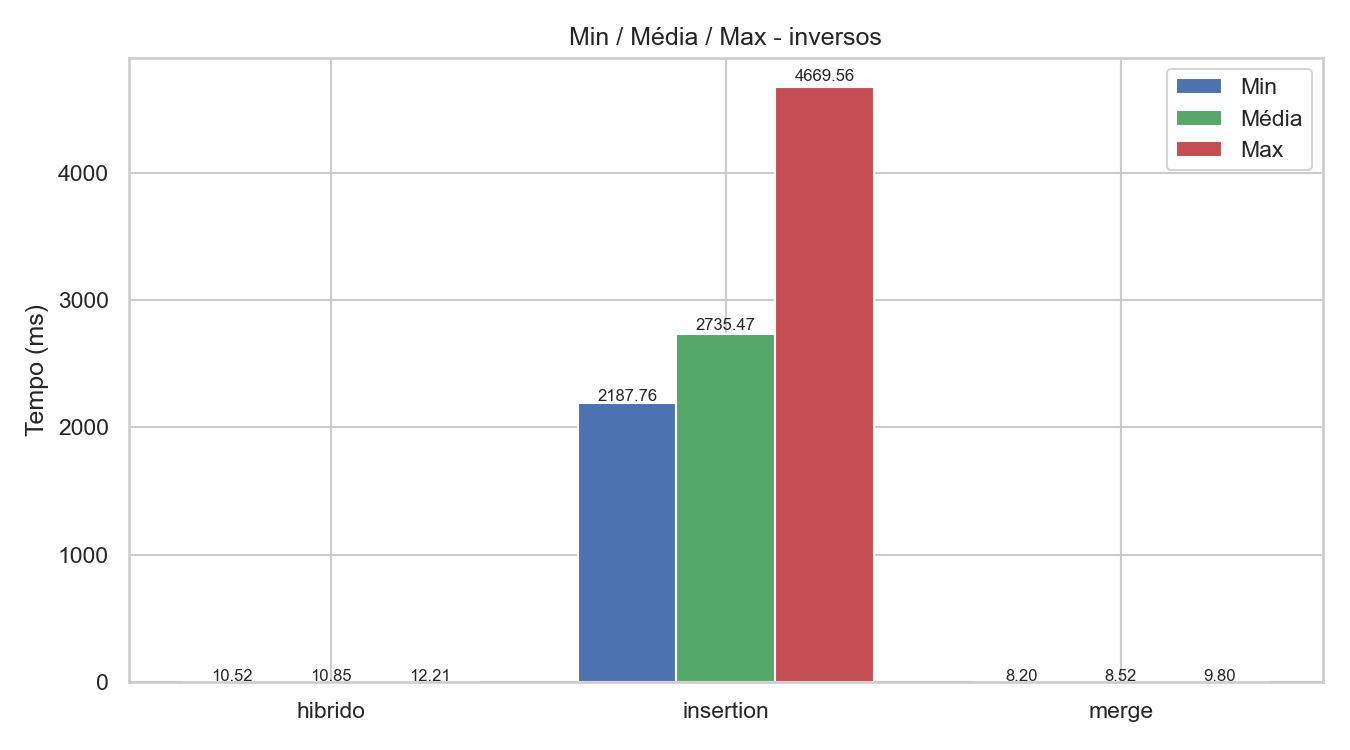
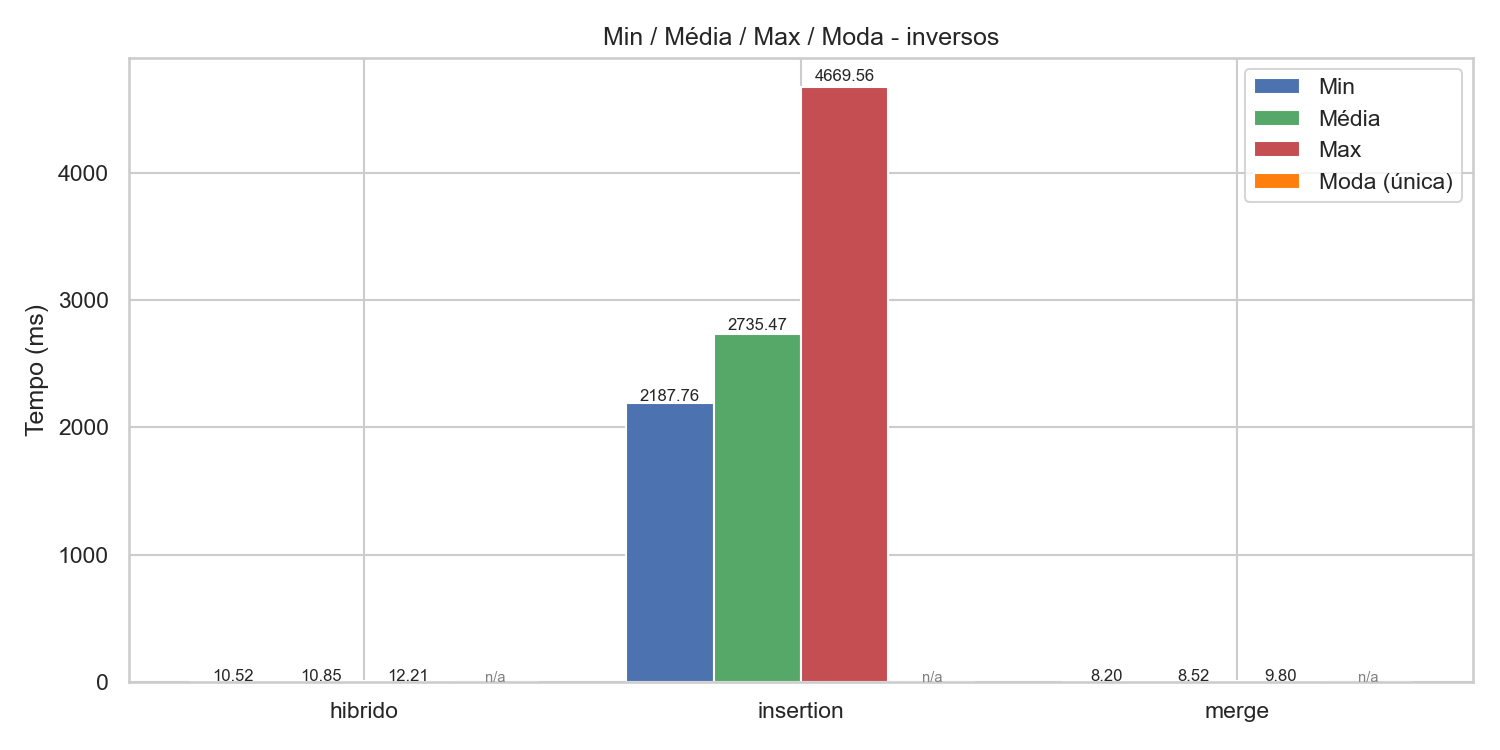
Refactor code structure for improved readability and maintainability

diff --git a/source/checkResults.py b/source/checkResults.py
@@ -131,33 +131,52 @@ def medias_com_erro(df):
         plt.close()
 
 
+
 def min_med_max_por_colecao(df):
-    """Gráfico com Min, Média e Max lado a lado para cada algoritmo (facilita comparação)."""
+    """Gráfico com Min, Média, Max e Moda lado a lado para cada algoritmo (facilita comparação)."""
     for colecao in df["collection"].unique():
         sub = df[df["collection"] == colecao]
-        stats = sub.groupby("algoritmo")["tempo_ms"].agg(["min", "mean", "max"]).reset_index()
+
+        # usar agregação nomeada incluindo função customizada para moda (retorna NaN se não for única)
+        stats = sub.groupby("algoritmo")["tempo_ms"].agg(
+            min="min",
+            mean="mean",
+            max="max",
+            mode=lambda s: float(s.mode().iloc[0]) if len(s.mode()) == 1 else np.nan
+        ).reset_index()
+
         algs = stats["algoritmo"].tolist()
         mins = stats["min"].values
         means = stats["mean"].values
         maxs = stats["max"].values
+        modes = stats["mode"].values
 
         x = np.arange(len(algs))
-        width = 0.25
-        plt.figure(figsize=(9, 5))
-        plt.bar(x - width, mins, width=width, label="Min", color="#4c72b0")
-        plt.bar(x, means, width=width, label="Média", color="#55a868")
-        plt.bar(x + width, maxs, width=width, label="Max", color="#c44e52")
+        width = 0.2
+        plt.figure(figsize=(10, 5))
+        plt.bar(x - 1.5*width, mins, width=width, label="Min", color="#4c72b0")
+        plt.bar(x - 0.5*width, means, width=width, label="Média", color="#55a868")
+        plt.bar(x + 0.5*width, maxs, width=width, label="Max", color="#c44e52")
+        mode_plot_values = np.where(np.isnan(modes), 0.0, modes)
+        plt.bar(x + 1.5*width, mode_plot_values, width=width, label="Moda (única)", color="#ff7f0e")
         plt.xticks(x, algs)
         plt.ylabel("Tempo (ms)")
-        plt.title(f"Min / Média / Max - {colecao}")
-        for i in x:
-            plt.text(i - width, mins[i] * 1.01, f"{mins[i]:.2f}", ha='center', fontsize=8)
-            plt.text(i, means[i] * 1.01, f"{means[i]:.2f}", ha='center', fontsize=8)
-            plt.text(i + width, maxs[i] * 1.01, f"{maxs[i]:.2f}", ha='center', fontsize=8)
+        plt.title(f"Min / Média / Max / Moda - {colecao}")
+
+        for i in range(len(x)):
+            plt.text(x[i] - 1.5*width, mins[i] * 1.01, f"{mins[i]:.2f}", ha='center', fontsize=8)
+            plt.text(x[i] - 0.5*width, means[i] * 1.01, f"{means[i]:.2f}", ha='center', fontsize=8)
+            plt.text(x[i] + 0.5*width, maxs[i] * 1.01, f"{maxs[i]:.2f}", ha='center', fontsize=8)
+            if not np.isnan(modes[i]):
+                plt.text(x[i] + 1.5*width, modes[i] * 1.01, f"{modes[i]:.2f}", ha='center', fontsize=8)
+            else:
+                plt.text(x[i] + 1.5*width, 0.01, "n/a", ha='center', fontsize=7, color='gray')
+
         plt.legend()
         plt.tight_layout()
         plt.savefig(os.path.join(FIGS_DIR, f"min_med_max_{colecao}.png"), dpi=150)
         plt.close()
+
 
 
 def linhas_execucoes(df):
